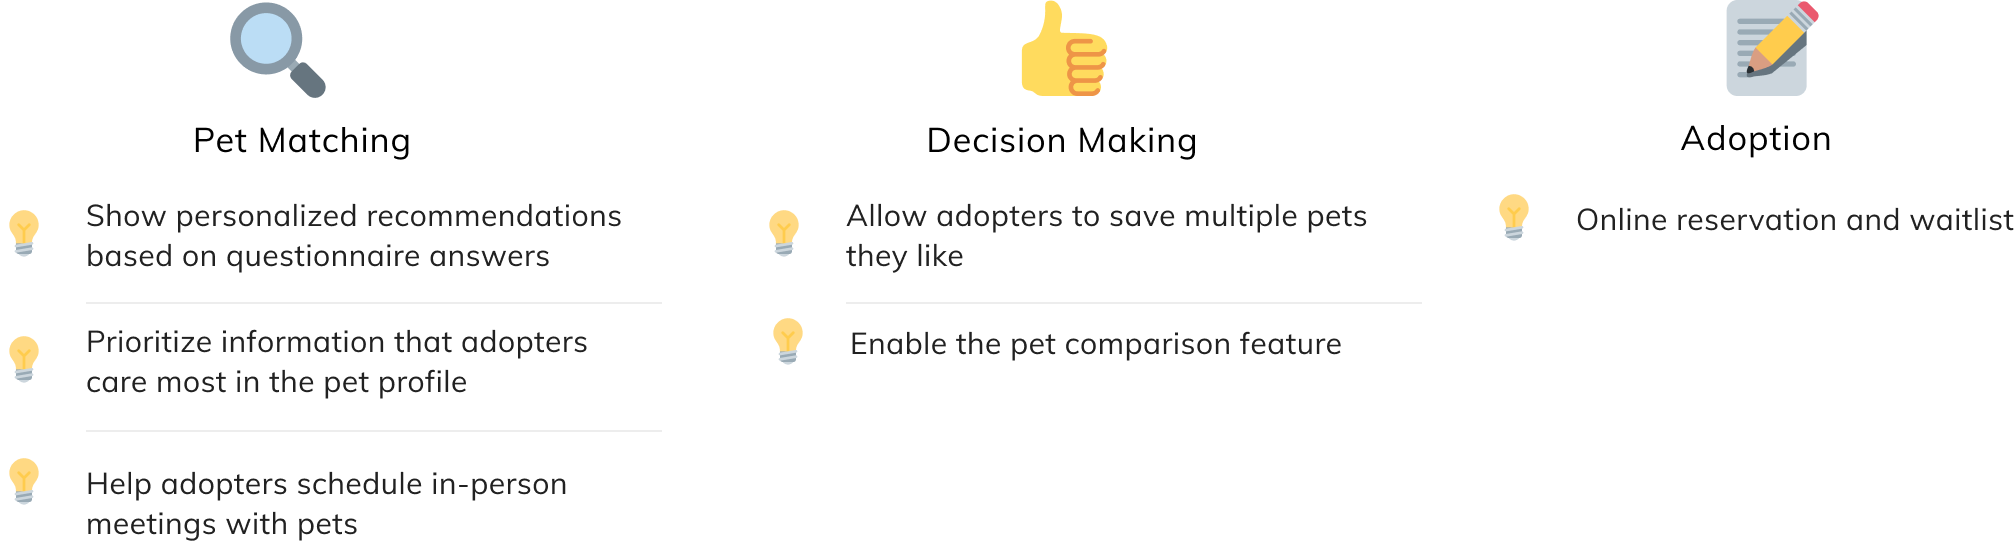
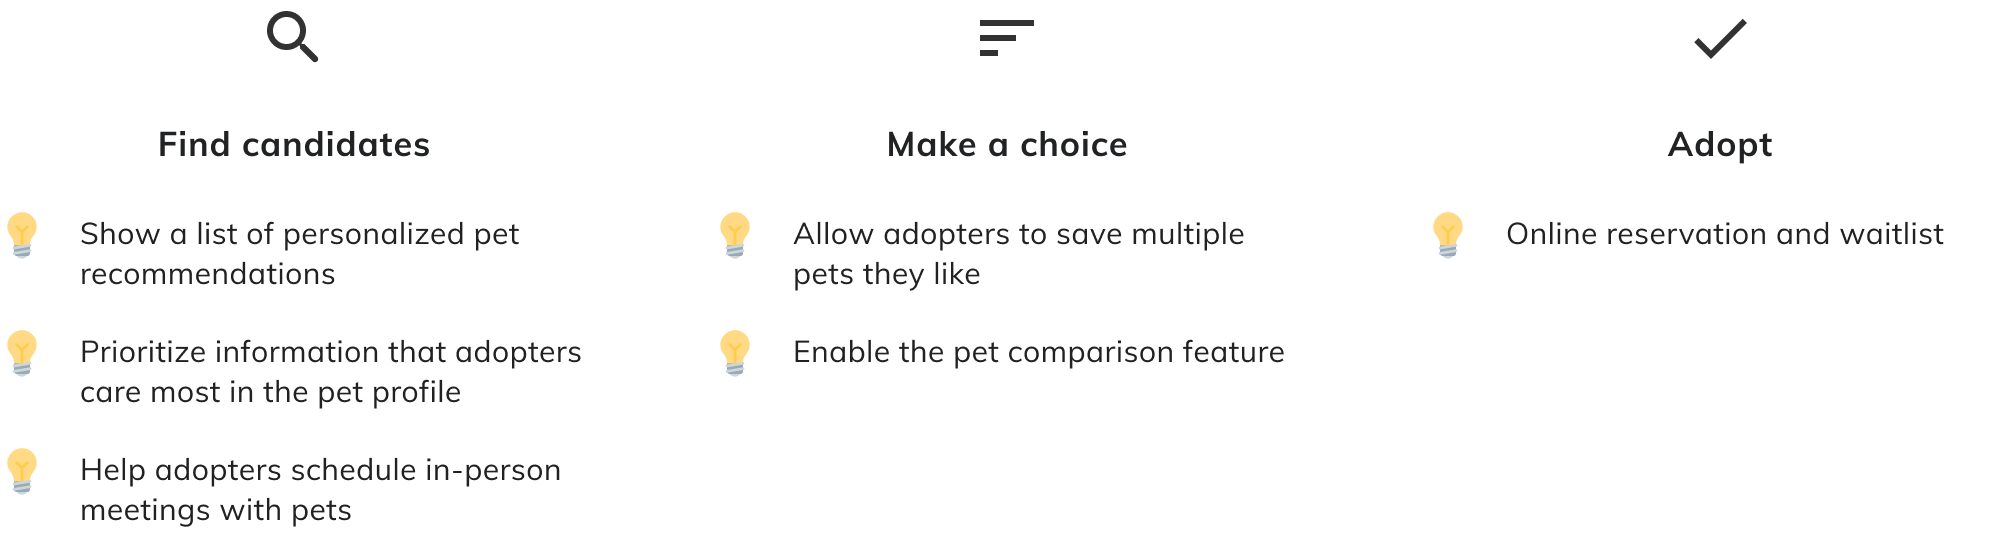
made changes to the pet adoption website

diff --git a/src/pages/Pet.js b/src/pages/Pet.js
@@ -57,7 +57,7 @@ export default function Pet() {
       <WorkHeader
         title="Fluffy"
         subtitle="Animal Adoption Website"
-        role="Role: UX Designer / Duration: 5 days / Personal Project"
+        role="Role: UX Designer & UX Engineer / Duration: 2 weeks / Individual School Project"
         figma="https://www.figma.com/proto/1NB4T561nfhOYVEWVhrito/pet-adoption?node-id=1%3A2&scaling=min-zoom"
       />
 
@@ -130,7 +130,7 @@ export default function Pet() {
           <p>
             Two main questions I asked in the research phase was:
             <br />
-           <b>"How did experienced adopters connect with their ideal pets?"</b>
+           <b>"How did adopters connect with their ideal pets currently?"</b>
            <br/>
             <b>"What problems did they encounter? "</b>
             <br/>
@@ -198,12 +198,12 @@ I put the problems in the pink stickers and listed causes in yellow stickers.
           
 
           <h3>Research Takeaways</h3>
-          <p>The investigation was very insightful. Next, I grouped causes mentioned in the last session based on the adoption phases - pet matching, decision making, adoption.</p><br/>
+          <p>Below shows a connection between ultimate goal, user needs, and current pain points.</p><br/>
           <Zoom>
             <img
               src={require("../images/pet/research-insights.jpg")}
               alt="key takeaways in ux research"
-              className="zoom-image"
+              className="zoom-image light-shadow"
             ></img>
           </Zoom>
         </section>
@@ -213,7 +213,7 @@ I put the problems in the pink stickers and listed causes in yellow stickers.
           <p> After the research was done, The design goal became clear:</p><br/>
           <p>
             <b>
-              "Help adopters find the right pet easier, facilitate decisions, and smooth the adoption process."
+              "Help adopters find candidates easier, facilitate decisions, and smooth the adoption process."
             </b>
           </p>
           <br/>
@@ -223,7 +223,7 @@ I put the problems in the pink stickers and listed causes in yellow stickers.
             src={require("../images/pet/ideation.png")}
              
               alt="ideation"
-              className="zoom-image"
+              className="zoom-image light-shadow"
             ></img>
           </Zoom>
         </section>
@@ -233,10 +233,10 @@ I put the problems in the pink stickers and listed causes in yellow stickers.
             As the design requirements have been identified, it’s time for the design work. I put together a high-level user flow diagram as the
             guideline for design.
           </p>
-          <h4>Task Flow</h4>
+          <h4>User Flow</h4>
           <Zoom>
             <img
-              src={require("../images/pet/taskflow.jpg")}
+              src={require("../images/pet/taskflow.jpeg")}
               alt="task flow"
               className="zoom-image"
             ></img>
@@ -414,7 +414,7 @@ I put the problems in the pink stickers and listed causes in yellow stickers.
           <p> I will give a high-level introduction to the user flow and then go into detail for a few important features related to the objective most. At the beginning of the adoption process, users would be asked to answer a few questions related to their lifestyles and preferences. A list of pet recommendations will be shown based on their answers. After that, users could pick multiple pets that align with their expectations, and compare these pets using the comparison feature. If they have made a decision, they can reserve the pet online, and if the pet is on hold, they can join the waitlist and wait for further instructions.</p>
           <Zoom>
               <img
-                src={require("../images/pet/taskflow_it.jpg")}
+                src={require("../images/pet/taskflow_it.jpeg")}
                 alt="task flow version 2"
                 className="zoom-image"
               ></img>
@@ -424,7 +424,7 @@ I put the problems in the pink stickers and listed causes in yellow stickers.
             Next, let’s revisit those pain points discovered in the user research
             section, and see how I solved these problems one by one.
           </p>
-          <h4>Pet Finding</h4>
+          <h4>Find candidates</h4>
           
           <div className="videos pet-videos">
           <IssueCause 
@@ -472,7 +472,7 @@ I put the problems in the pink stickers and listed causes in yellow stickers.
 
           
 
-          <h4>Decision Making</h4>
+          <h4>Make a choice</h4>
 
           <div className="videos pet-videos">
           <IssueCause 
@@ -490,7 +490,7 @@ I put the problems in the pink stickers and listed causes in yellow stickers.
             
           </div>
 
-          <h4>Adoption</h4>
+          <h4>Adopt the pet</h4>
          
 
           <div className="videos pet-videos">

diff --git a/src/pages/TemplateStyle.scss b/src/pages/TemplateStyle.scss
@@ -285,6 +285,14 @@ p.design-question{
 
 }
 
+.light-shadow{
+    box-shadow: 0px 10px 30px rgba(112, 108, 138, 0.14);
+    padding: 2em 1em;
+    margin:3em 0;
+    box-sizing: border-box;
+    
+}
+
 @media (max-width:$layout-breakpoint-small){
     .fig-with-caption{
         flex-direction: column;

diff --git a/src/pages/Seller.scss b/src/pages/Seller.scss
@@ -18,13 +18,7 @@
     align-items: flex-start;
 }
 
-.light-shadow{
-    box-shadow: 0px 10px 30px rgba(112, 108, 138, 0.14);
-    padding: 2em 1em;
-    margin:3em 0;
-    box-sizing: border-box;
-    
-}
+
 
 .three-column-seller{
     display: grid;
